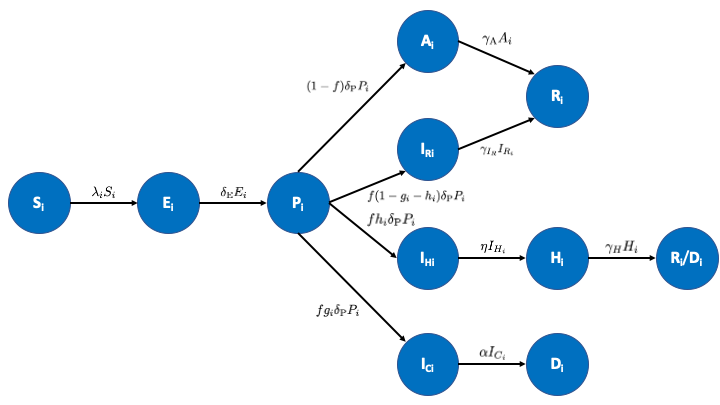
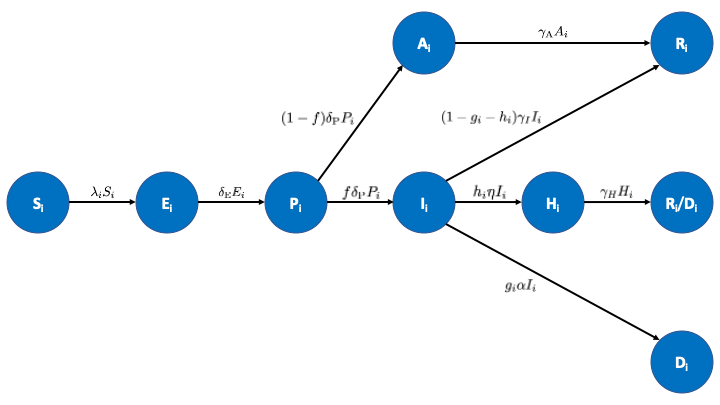
Updating manuscript, analytic R0 calculation, and parameters for current model

diff --git a/docs/Parameter estimates.md b/docs/Parameter estimates.md
@@ -1,25 +1,36 @@
 # Parameter estimates
 
-### Proportion symptomatic (fracAI)
+## Class-specific (vary according to age group/comorbidity status)
+
+### Fraction of symptomatic requiring hospitalization but not ICU admission (h)
+* [Data from US CDC report on COVID-19 in children](https://www.cdc.gov/mmwr/volumes/69/wr/mm6914e4.htm?s_cid=mm6914e4_e&deliveryName=USCDC_921-DM25115#T1_down) used for children (0-12)
+* [Data from US CDC report on underlying health conditions and COVID-19 in adults](https://www.ncbi.nlm.nih.gov/pmc/articles/PMC7119513/) used for adults (13+)
+* Parameter is fixed with known age and comorbidity specific values, no probability distribution
+  * Age 1 (0-12), no comorbidities- set to proportion hospitalized-proportion admitted to ICU aged <18 with known outcomes (20% - 2% = 18%)
+  * Age 1 (0-12), comorbidities- set to proportion hospitalized-proportion admitted to ICU aged <18 with known outcomes (20% - 2% = 18%) (*irrelevant, assuming no comorbidities in this age group*)
+  * Age 2 (13-50), no comorbidities- set to proportion hospitalized without ICU admission aged 19-64 with no comorbidities & known outcomes (6.7%)
+  * Age 2 (13-50), comorbidities- set to proportion hospitalized without ICU admission aged 19-64 with comorbidities & known outcomes (19.9%)
+  * Age 3 (over 50), no comorbidities- set to proportion hospitalized without ICU admission aged 65+ with no comorbidities & known outcomes (18.3%)
+  * Age 3 (over 50), comorbidities- set to proportion hospitalized without ICU admission aged 65+ with comorbidities & known outcomes (44.5%)
+
+### Fraction of symptomatic requiring ICU admission (g)
+* [Data from US CDC report on COVID-19 in children](https://www.cdc.gov/mmwr/volumes/69/wr/mm6914e4.htm?s_cid=mm6914e4_e&deliveryName=USCDC_921-DM25115#T1_down) used for children (0-12)
+* [Data from US CDC report on underlying health conditions and COVID-19 in adults](https://www.ncbi.nlm.nih.gov/pmc/articles/PMC7119513/) used for adults (13+)
+* Parameter is fixed with known age and comorbidity specific values, no probability distribution
+  * Age 1 (0-12), no comorbidities- set to proportion admitted to ICU aged <18 with known outcomes (2%)
+  * Age 1 (0-12), comorbidities- set to proportion admitted to ICU aged <18 with known outcomes (2%) (*irrelevant, assuming no comorbidities in this age group*)
+  * Age 2 (13-50), no comorbidities- set to proportion admitted to ICU aged 19-64 with no comorbidities & known outcomes (2.0%)
+  * Age 2 (13-50), comorbidities- set to proportion admitted to ICU aged 19-64 with comorbidities & known outcomes (9.4%)
+  * Age 3 (over 50), no comorbidities- set to proportion admitted to ICU aged 65+ with no comorbidities & known outcomes (6.3%)
+  * Age 3 (over 50), comorbidities- set to proportion admitted to ICU aged 65+ with comorbidities & known outcomes (22.2%)
+
+## Not class-specific
+
+### Fraction symptomatic (f)
 * [Meta-analysis](https://www.medrxiv.org/content/10.1101/2020.05.10.20097543v1) estimates .16 asymptomatic (not age-specific)
 * We use: fracAI = .84
 * 95% CI = (.8, .88)
 * Distributed binomially with exact Clopper–Pearson confidence intervals.
-
-### Hospitalization rate/proportion of symptomatic requiring hospitalization (zeta)
-* [Data from Spanish ministry of health](https://www.mscbs.gob.es/profesionales/saludPublica/ccayes/alertasActual/nCov-China/documentos/Actualizacion_52_COVID-19.pdf) used for children (0-12)
-* [Data from US CDC](https://www.ncbi.nlm.nih.gov/pmc/articles/PMC7119513/) used for adults (13+)
-* Parameter is fixed with known age and comorbidity specific values, no probability distribution
-  * Age 1 (0-12), no comorbidities- set to proportion hospitalized aged 0-9 in Spain (.50%)
-  * Age 1 (0-12), comorbidities- set to proportion hospitalized aged 0-9 in Spain (.50%) (*irrelevant, assuming no comorbidities in this age group*)
-  * Age 2 (13-50), no comorbidities- set to sum of proportions hospitalized with & without ICU admission with known outcomes aged 19-64 with no comorbidities in the US (6.7% + 2.0% = 8.7%)
-  * Age 2 (13-50), comorbidities- set to sum of proportions hospitalized with & without ICU admission with known outcomes aged 19-64 with comorbidities in the US (19.9% + 9.4% = 29.3%)
-  * Age 3 (over 50), no comorbidities- set to sum of proportions hospitalized with & without ICU admission with known outcomes aged 65+ with no comorbidities in the US (18.3% + 6.3% = 24.6%)
-  * Age 3 (over 50), comorbidities- set to sum of proportions hospitalized with & without ICU admission with known outcomes aged 65+ with comorbidities in the US (44.5% + 22.2% = 66.7%)
-
-### CFR/fatality rate among hospitalized (alpha- not using in model)
-* [ICL paper](https://www.imperial.ac.uk/media/imperial-college/medicine/sph/ide/gida-fellowships/Imperial-College-COVID19-NPI-modelling-16-03-2020.pdf) used estimates for proportion of hospitalized cases requiring critical care (assuming all cases requiring critical care will die)
-* Age group 1 = .05, age group 2 = .05, age group 3 = .274
 
 ### 1/delta_E (average duration of the latent period E)
 * [Nature paper on temporal dynamics in viral shedding and transmissibility of COVID-19, n = 94 patients](https://www.nature.com/articles/s41591-020-0869-5#citeas)
@@ -36,15 +47,15 @@
 * 1/gamma_I = 1/gamma_A = 7-8 days (no 95% IC available, this parameter is very difficult to estimate because there is no routine test and no temporal event such as hospital discharge). 
 * Note: after 8 days, viral RNA from mild cases (not hopitalized) could still be detected by PCR but could not be cultured in vitro anymore [Ref](https://www.nature.com/articles/s41586-020-2196-x)
 
-### 1/delta_H (average time from symptoms onset I to hospitalization H)
-* 1/delta_H mean = 7 days (sd = +- 4) [Seattle study, n = 24 patients](https://www.nejm.org/doi/full/10.1056/NEJMoa2004500)
-* 1/delta_H median = 7 days (IQR: 4-8) [Chinese study, n = 138 patients](https://jamanetwork.com/journals/jama/fullarticle/2761044)
-* 1/delta_H median = 11 days (IQR: 8-14) [Other Chinese study, n = 191 patients](https://www.thelancet.com/journals/lancet/article/PIIS0140-6736(20)30566-3/fulltext)
+### 1/eta (average time from symptoms onset I to hospitalization H)
+* 1/eta mean = 7 days (sd = +- 4) [Seattle study, n = 24 patients](https://www.nejm.org/doi/full/10.1056/NEJMoa2004500)
+* 1/eta median = 7 days (IQR: 4-8) [Chinese study, n = 138 patients](https://jamanetwork.com/journals/jama/fullarticle/2761044)
+* 1/eta median = 11 days (IQR: 8-14) [Other Chinese study, n = 191 patients](https://www.thelancet.com/journals/lancet/article/PIIS0140-6736(20)30566-3/fulltext)
 
-### 1/delta_C (average time from hospitalization H to critical care, here considered as death D)
-* 1/delta_C = Time from onset to ICU - time from onset to hospitalization
-* 1/delta_C = 10 days (IQR: 6-12) - 7 days (IQR: 4-8) = 3 days (IQR or CI tbd) [Chinese study, n = 138 patients](https://jamanetwork.com/journals/jama/fullarticle/2761044)
-* 1/delta_C = 12 days (IQR: 8-15) - 11 days (IQR: 8-14) = 1 day (IQR or CI tbd) [Other Chinese study, n = 191 patients](https://www.thelancet.com/journals/lancet/article/PIIS0140-6736(20)30566-3/fulltext)
+### 1/alpha (average time from onset to critical care, here considered as death D)
+* 1/alpha = Time from onset to ICU
+* 1/alpha = 10 days (IQR: 6-12) [Chinese study, n = 138 patients](https://jamanetwork.com/journals/jama/fullarticle/2761044)
+* 1/alpha = 12 days (IQR: 8-15) [Other Chinese study, n = 191 patients](https://www.thelancet.com/journals/lancet/article/PIIS0140-6736(20)30566-3/fulltext)
 
 ### 1/gamma_H (average time from hospitalization H to recovery R)
 * 1/gamma_H = 10 days (IQR: 7-14) [Chinese study, n = 138 patients](https://jamanetwork.com/journals/jama/fullarticle/2761044)
